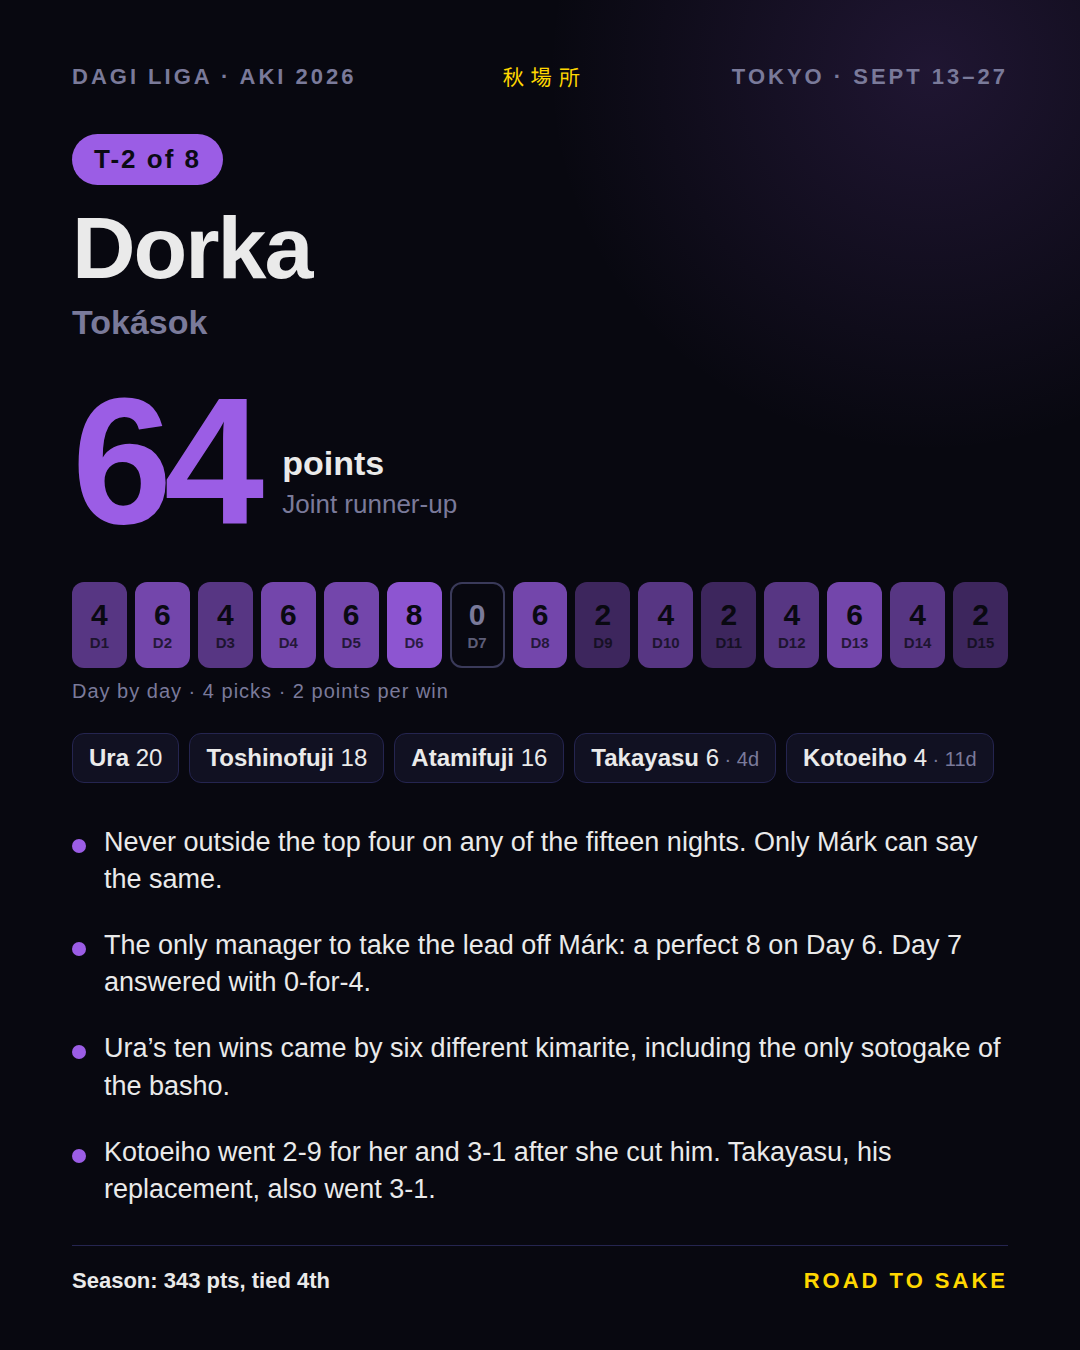
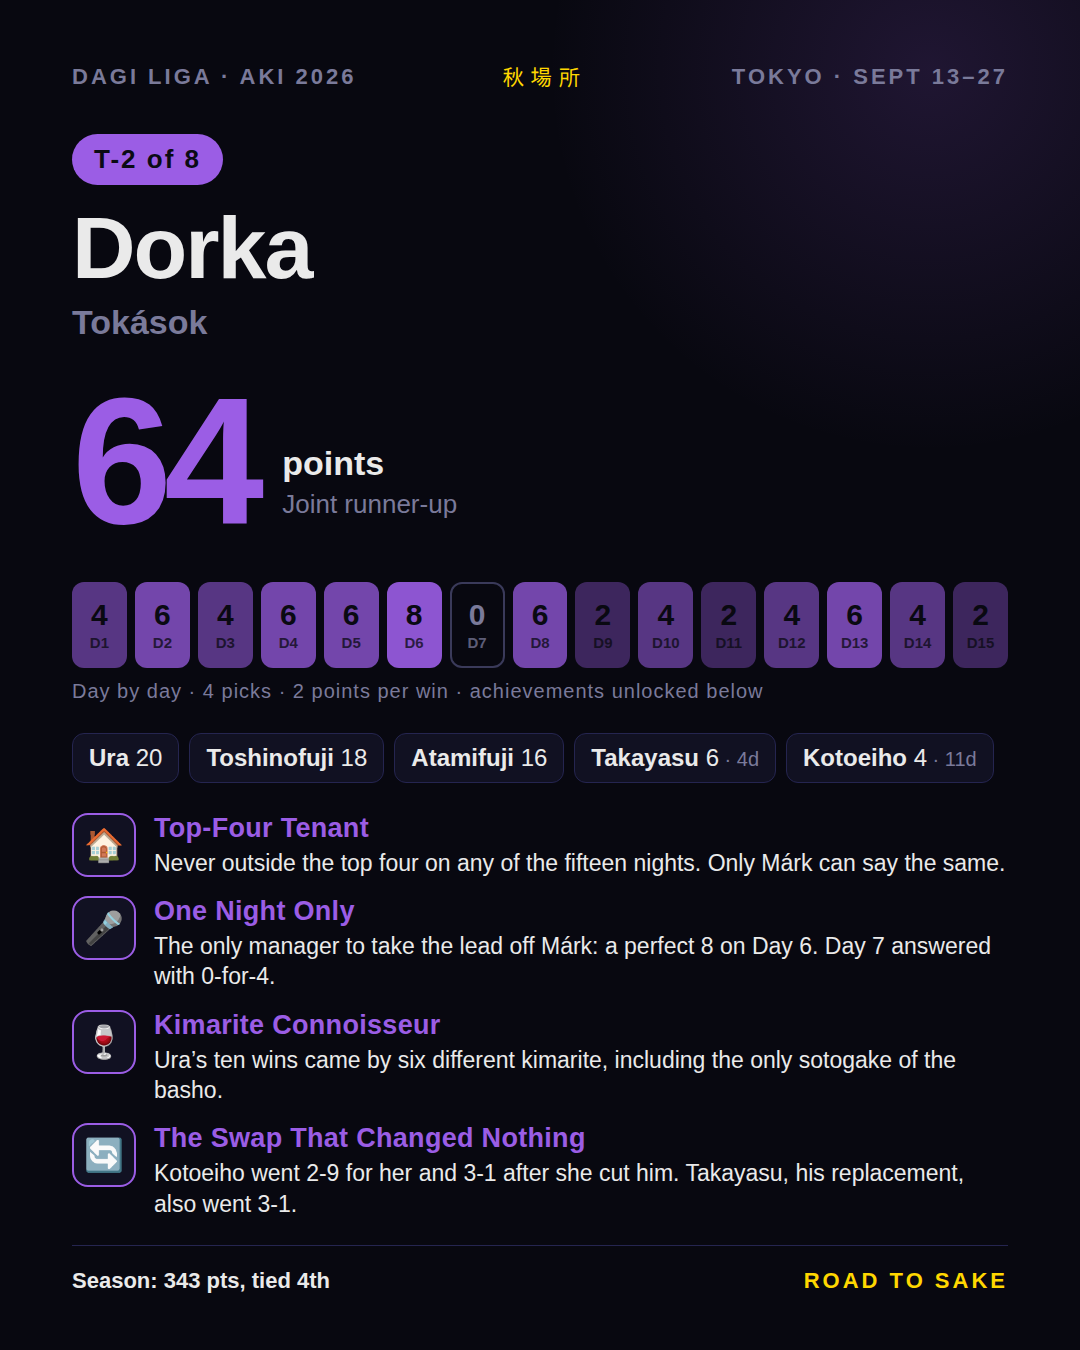
Name the achievements on the Aki manager cards
Each fact on the share cards is now an achievement with a badge and a
title (Repeat Offender, Three-Man Team, The Barbell, Aggressively
Average, Human Shield, Civil War Veteran, Revenge of the Benched...).

Claude-Session: https://claude.ai/code/session_01DtAw2vH4ZdGgA4BNjJgPJ6

Changed region(s): [[0.0611, 0.5911, 0.9167, 0.9022], [0.4278, 0.4978, 0.7028, 0.5289]]

diff --git a/cards/aki_2026/gen.js b/cards/aki_2026/gen.js
@@ -9,66 +9,66 @@ const managers = [
   { owner: 'Márk Vrabély', first: 'Márk', file: 'mark', team: 'сумо', color: '#f8961e', place: '1st', tag: 'Aki champion · back-to-back',
     season: 'Season: 385 pts, leads by 22 with one basho left',
     facts: [
-      'Back-to-back champion. The first manager ever to defend a Dagi Liga title.',
-      'Led or shared the lead after 14 of 15 days. Never dropped below 2nd.',
-      '30 straight days without a single swap across Nagoya and Aki. Two titles.',
-      'His picks beat rivals’ picks 28 times and lost 9, the best record in the league’s civil war.'
+      { icon: '🏆', name: 'Repeat Offender', text: 'Back-to-back champion. The first manager ever to defend a Dagi Liga title.' },
+      { icon: '🛋', name: 'Rent-Free at the Top', text: 'Led or shared the lead after 14 of 15 days. Never dropped below 2nd.' },
+      { icon: '🔕', name: 'Do Not Disturb', text: '30 straight days without a single swap across Nagoya and Aki. Two titles.' },
+      { icon: '🎯', name: 'Friendly Fire Champion', text: 'His picks beat rivals’ picks 28 times and lost 9, the best record in the league’s civil war.' }
     ] },
   { owner: 'Dorka FJ', first: 'Dorka', file: 'dorka', team: 'Tokások', color: '#9b5de5', place: 'T-2', tag: 'Joint runner-up',
     season: 'Season: 343 pts, tied 4th',
     facts: [
-      'Never outside the top four on any of the fifteen nights. Only Márk can say the same.',
-      'The only manager to take the lead off Márk: a perfect 8 on Day 6. Day 7 answered with 0-for-4.',
-      'Ura’s ten wins came by six different kimarite, including the only sotogake of the basho.',
-      'Kotoeiho went 2-9 for her and 3-1 after she cut him. Takayasu, his replacement, also went 3-1.'
+      { icon: '🏠', name: 'Top-Four Tenant', text: 'Never outside the top four on any of the fifteen nights. Only Márk can say the same.' },
+      { icon: '🎤', name: 'One Night Only', text: 'The only manager to take the lead off Márk: a perfect 8 on Day 6. Day 7 answered with 0-for-4.' },
+      { icon: '🍷', name: 'Kimarite Connoisseur', text: 'Ura’s ten wins came by six different kimarite, including the only sotogake of the basho.' },
+      { icon: '🔄', name: 'The Swap That Changed Nothing', text: 'Kotoeiho went 2-9 for her and 3-1 after she cut him. Takayasu, his replacement, also went 3-1.' }
     ] },
   { owner: 'DJ_Pongo_Pongo', first: 'DJ_Pongo', file: 'dj_pongo', team: 'Kövér utcai Uszoda', color: '#43aa8b', place: 'T-2', tag: 'Joint runner-up',
     season: 'Season: 342 pts, 6th, one point off 4th',
     facts: [
-      'The only owner of the yokozuna. Onosato: 24 points, and the last bout of the day, every day.',
-      'Carried the kyūjō Wakanosho for six days (six zeros) and still finished joint 2nd.',
-      'Joint last after Day 4. One three-man swap on Day 7, then the best second half in the league.',
-      'The final bout of the basho, Onosato over Aonishiki, lifted him from a share of 4th to a share of 2nd.'
+      { icon: '🌙', name: 'Last Bout Standing', text: 'The only owner of the yokozuna. Onosato: 24 points, and the last bout of the day, every day.' },
+      { icon: '🦵', name: 'Three-Man Team', text: 'Carried the kyūjō Wakanosho for six days (six zeros) and still finished joint 2nd.' },
+      { icon: '🚀', name: 'Comeback Kid', text: 'Joint last after Day 4. One three-man swap on Day 7, then the best second half in the league.' },
+      { icon: '📸', name: 'Photo Finish', text: 'The final bout of the basho, Onosato over Aonishiki, lifted him from a share of 4th to a share of 2nd.' }
     ] },
   { owner: 'Sándor Szilágyi', first: 'Sándor', file: 'sandor', team: 'DigiDagi', color: '#577590', place: 'T-4', tag: 'Shared 2nd until the last day',
     season: 'Season: 359 pts, 3rd, four behind Richard',
     facts: [
-      'The barbell roster: Ōzeki, Sekiwake, Maegashira 16 and 17. Zero points from anything in between.',
-      'Level with Márk at the top after Day 10. Still sharing 2nd going into senshūraku.',
-      'Scored exactly 4 on ten of the fifteen days, five of them in a row.',
-      'Day 15: four losses, to DJ’s Onosato, Ricsi’s Fujinokawa, Hiradoumi and a Jūryō call-up. One win would have kept 2nd.'
+      { icon: '🏋', name: 'The Barbell', text: 'Ōzeki, Sekiwake, Maegashira 16 and 17. Zero points from anything in between.' },
+      { icon: '🤏', name: 'So Close', text: 'Level with Márk at the top after Day 10. Still sharing 2nd going into senshūraku.' },
+      { icon: '4⃣', name: 'Four, Four, Four, Four, Four', text: 'Scored exactly 4 on ten of the fifteen days, five of them in a row.' },
+      { icon: '🧨', name: 'Senshūraku Sandbagged', text: 'Day 15: four losses, to DJ’s Onosato, Ricsi’s Fujinokawa, Hiradoumi and a Jūryō call-up. One win would have kept 2nd.' }
     ] },
   { owner: 'Mátyás Fazakas', first: 'Mátyás', file: 'matyas', team: 'Tokyo Töpörtyűk', color: '#4ecdc4', place: 'T-4', tag: 'The steadiest team on the board',
     season: 'Season: 343 pts, tied 4th',
     facts: [
-      'Four picks who finished a combined 32-28, every one of them within a single win of .500.',
-      'No perfect day and no zero: nothing above 6, nothing below 2. The steadiest team in the league.',
-      '15 wins over higher-ranked opponents, the most of anyone.',
-      'Two points from a bout nobody fought (Fujiryoga’s fusen, Day 12). Climbed from 6th to T-4 over the last three days.'
+      { icon: '😐', name: 'Aggressively Average', text: 'Four picks who finished a combined 32-28, every one of them within a single win of .500.' },
+      { icon: '📏', name: 'No Highs, No Lows', text: 'No perfect day and no zero: nothing above 6, nothing below 2. The steadiest team in the league.' },
+      { icon: '🗡', name: 'Giant Slayer', text: '15 wins over higher-ranked opponents, the most of anyone.' },
+      { icon: '🎁', name: 'Free Points Inside', text: 'Two points from a bout nobody fought (Fujiryoga’s fusen, Day 12). Climbed from 6th to T-4 over the last three days.' }
     ] },
   { owner: 'Radish Master 888', first: 'Radish Master 888', file: 'radish', team: 'Abszolút Túlsúly 💪', color: '#90be6d', place: 'T-6', tag: 'Back after three bashos away',
     season: 'Season: 117 pts from two bashos',
     facts: [
-      'Back after eight months off: 59, one point more than his Hatsu.',
-      'Won or shared the daily high score six times, more than anyone. Also two zeros in a row on Days 9 and 10.',
-      'His picks lost 64 points to rival-owned rikishi, the most friendly fire any team absorbed.',
-      'Kotozakura beat Onosato on Day 14 and turned senshūraku into a straight final for the Emperor’s Cup.'
+      { icon: '🚪', name: 'The Prodigal Manager', text: 'Back after eight months off: 59, one point more than his Hatsu.' },
+      { icon: '🎢', name: 'Peaks and Potholes', text: 'Won or shared the daily high score six times, more than anyone. Also two zeros in a row on Days 9 and 10.' },
+      { icon: '🛡', name: 'Human Shield', text: 'His picks lost 64 points to rival-owned rikishi, the most friendly fire any team absorbed.' },
+      { icon: '😈', name: 'Agent of Chaos', text: 'Kotozakura beat Onosato on Day 14 and turned senshūraku into a straight final for the Emperor’s Cup.' }
     ] },
   { owner: 'Csilla Virág', first: 'Csilla', file: 'csilla', team: 'best sumo team ever (?)', color: '#ff6b6b', place: 'T-6', tag: 'Best single day of the basho',
     season: 'Season: 325 pts, 7th',
     facts: [
-      'The best single day of Aki: 9 points on Day 4, four wins plus the only kinbōshi of the tournament.',
-      '2nd in the league after Day 7 and again after Day 9, one point behind Márk at one stage.',
-      'Day 9: all four of her picks were drawn against each other. Her score was fixed at 4 before a bout was fought.',
-      'The only manager to score more than in Nagoya. As played, 36 to 59: the biggest rise in league history.'
+      { icon: '🐱', name: 'Nine Lives', text: 'The best single day of Aki: 9 points on Day 4, four wins plus the only kinbōshi of the tournament.' },
+      { icon: '👀', name: 'Breathing Down His Neck', text: '2nd in the league after Day 7 and again after Day 9, one point behind Márk at one stage.' },
+      { icon: '⚔', name: 'Civil War Veteran', text: 'Day 9: all four of her picks were drawn against each other. Her score was fixed at 4 before a bout was fought.' },
+      { icon: '✨', name: 'Biggest Glow-Up', text: 'The only manager to score more than in Nagoya. As played, 36 to 59: the biggest rise in league history.' }
     ] },
   { owner: 'Richard Fejes', first: 'Ricsi', file: 'ricsi', team: 'Tokazachi Kövér Sportegyesület (TKSE)', color: '#f9c74f', place: '8th', tag: 'Still 2nd in the season race',
     season: 'Season: 363 pts, 2nd, 22 behind Márk',
     facts: [
-      '11 rikishi used and 7 pick changes, more than the other seven managers combined.',
-      'Fujinokawa (23 points, Kantō-shō) and Takerufuji gave him 41 of his 57. He owned Fujinokawa alone all basho, for the second tournament running.',
-      'Day 1 ceiling was 4: two of his picks were drawn against each other and Wakanosho was kyūjō. He scored 4.',
-      'Dropped Wakamotoharu before Day 14. Wakamotoharu then beat Takerufuji, Ricsi’s own pick.'
+      { icon: '🔧', name: 'Tinkerer-in-Chief', text: '11 rikishi used and 7 pick changes, more than the other seven managers combined.' },
+      { icon: '🎸', name: 'Two-Man Band', text: 'Fujinokawa (23 points, Kantō-shō) and Takerufuji gave him 41 of his 57. He owned Fujinokawa alone all basho, for the second tournament running.' },
+      { icon: '🪜', name: 'Ceiling Reached', text: 'Day 1 ceiling was 4: two of his picks were drawn against each other and Wakanosho was kyūjō. He scored 4.' },
+      { icon: '🔪', name: 'Revenge of the Benched', text: 'Dropped Wakamotoharu before Day 14. Wakamotoharu then beat Takerufuji, Ricsi’s own pick.' }
     ] }
 ];
 
@@ -117,9 +117,12 @@ function html(m, t) {
   .chips{display:flex;flex-wrap:wrap;gap:10px;margin-top:30px}
   .chip{padding:10px 16px;border-radius:12px;background:var(--card);border:1px solid var(--border);font-size:24px}
   .chip b{font-weight:800}.chip i{font-style:normal;color:var(--muted);font-size:20px}.chip.muted{color:var(--muted)}
-  .facts{margin-top:30px;margin-bottom:26px;flex:1;display:flex;flex-direction:column;justify-content:space-evenly;gap:18px}
-  .fact{display:flex;gap:18px;font-size:27px;line-height:1.38}
-  .fact .dot{flex:0 0 14px;height:14px;border-radius:50%;background:var(--c);margin-top:15px}
+  .facts{margin-top:26px;margin-bottom:22px;flex:1;display:flex;flex-direction:column;justify-content:space-evenly;gap:14px}
+  .fact{display:flex;gap:18px;align-items:flex-start}
+  .fact .badge{flex:0 0 64px;height:64px;border-radius:16px;background:var(--card);border:2px solid var(--c);display:flex;align-items:center;justify-content:center;font-size:32px;font-family:'Noto Color Emoji',sans-serif}
+  .ftxt{display:flex;flex-direction:column;gap:4px}
+  .fname{font-size:27px;font-weight:900;letter-spacing:.3px;color:var(--c)}
+  .fdesc{font-size:23px;line-height:1.32;color:var(--text)}
   .foot{margin-top:auto;display:flex;justify-content:space-between;align-items:flex-end;border-top:1px solid var(--border);padding-top:22px;font-size:22px;color:var(--muted)}
   .foot b{color:var(--text);font-weight:700}
   .foot .brand{font-weight:900;letter-spacing:3px;text-transform:uppercase;color:var(--gold)}
@@ -132,9 +135,9 @@ function html(m, t) {
   <div class="team">${esc(m.team)}</div>
   <div class="hero"><div class="num">${t.total}</div><div class="lbl"><div class="pts">points</div><div class="tag">${esc(m.tag)}</div></div></div>
   <div class="strip">${tiles}</div>
-  <div class="caption">Day by day · 4 picks · 2 points per win</div>
+  <div class="caption">Day by day · 4 picks · 2 points per win · achievements unlocked below</div>
   <div class="chips">${rosterLine(t)}</div>
-  <div class="facts">${m.facts.map(f => `<div class="fact"><span class="dot"></span><span>${f}</span></div>`).join('')}</div>
+  <div class="facts">${m.facts.map(f => `<div class="fact"><span class="badge">${f.icon}</span><span class="ftxt"><span class="fname">${f.name}</span><span class="fdesc">${f.text}</span></span></div>`).join('')}</div>
   <div class="foot"><span><b>${esc(m.season)}</b></span><span class="brand">Road to Sake</span></div>
 </div></body></html>`;
 }
